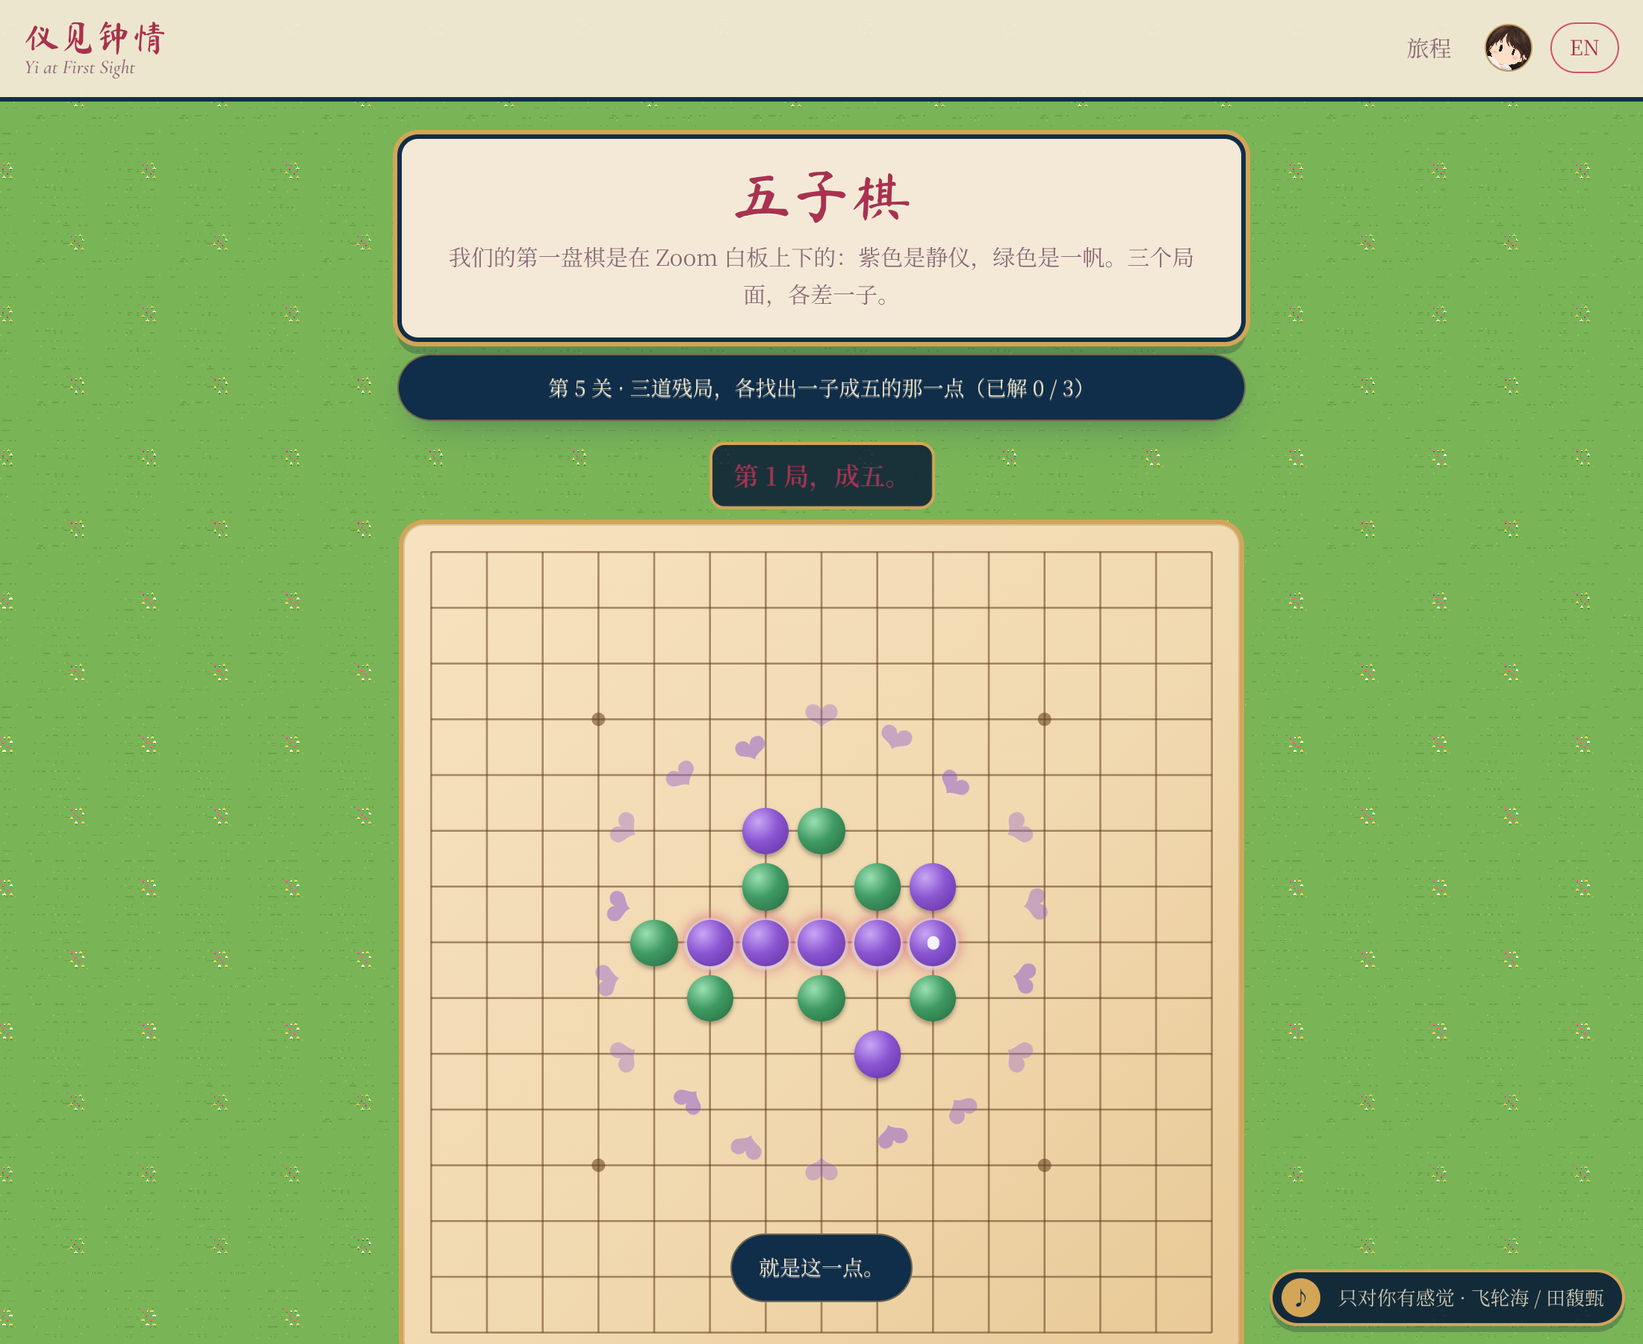
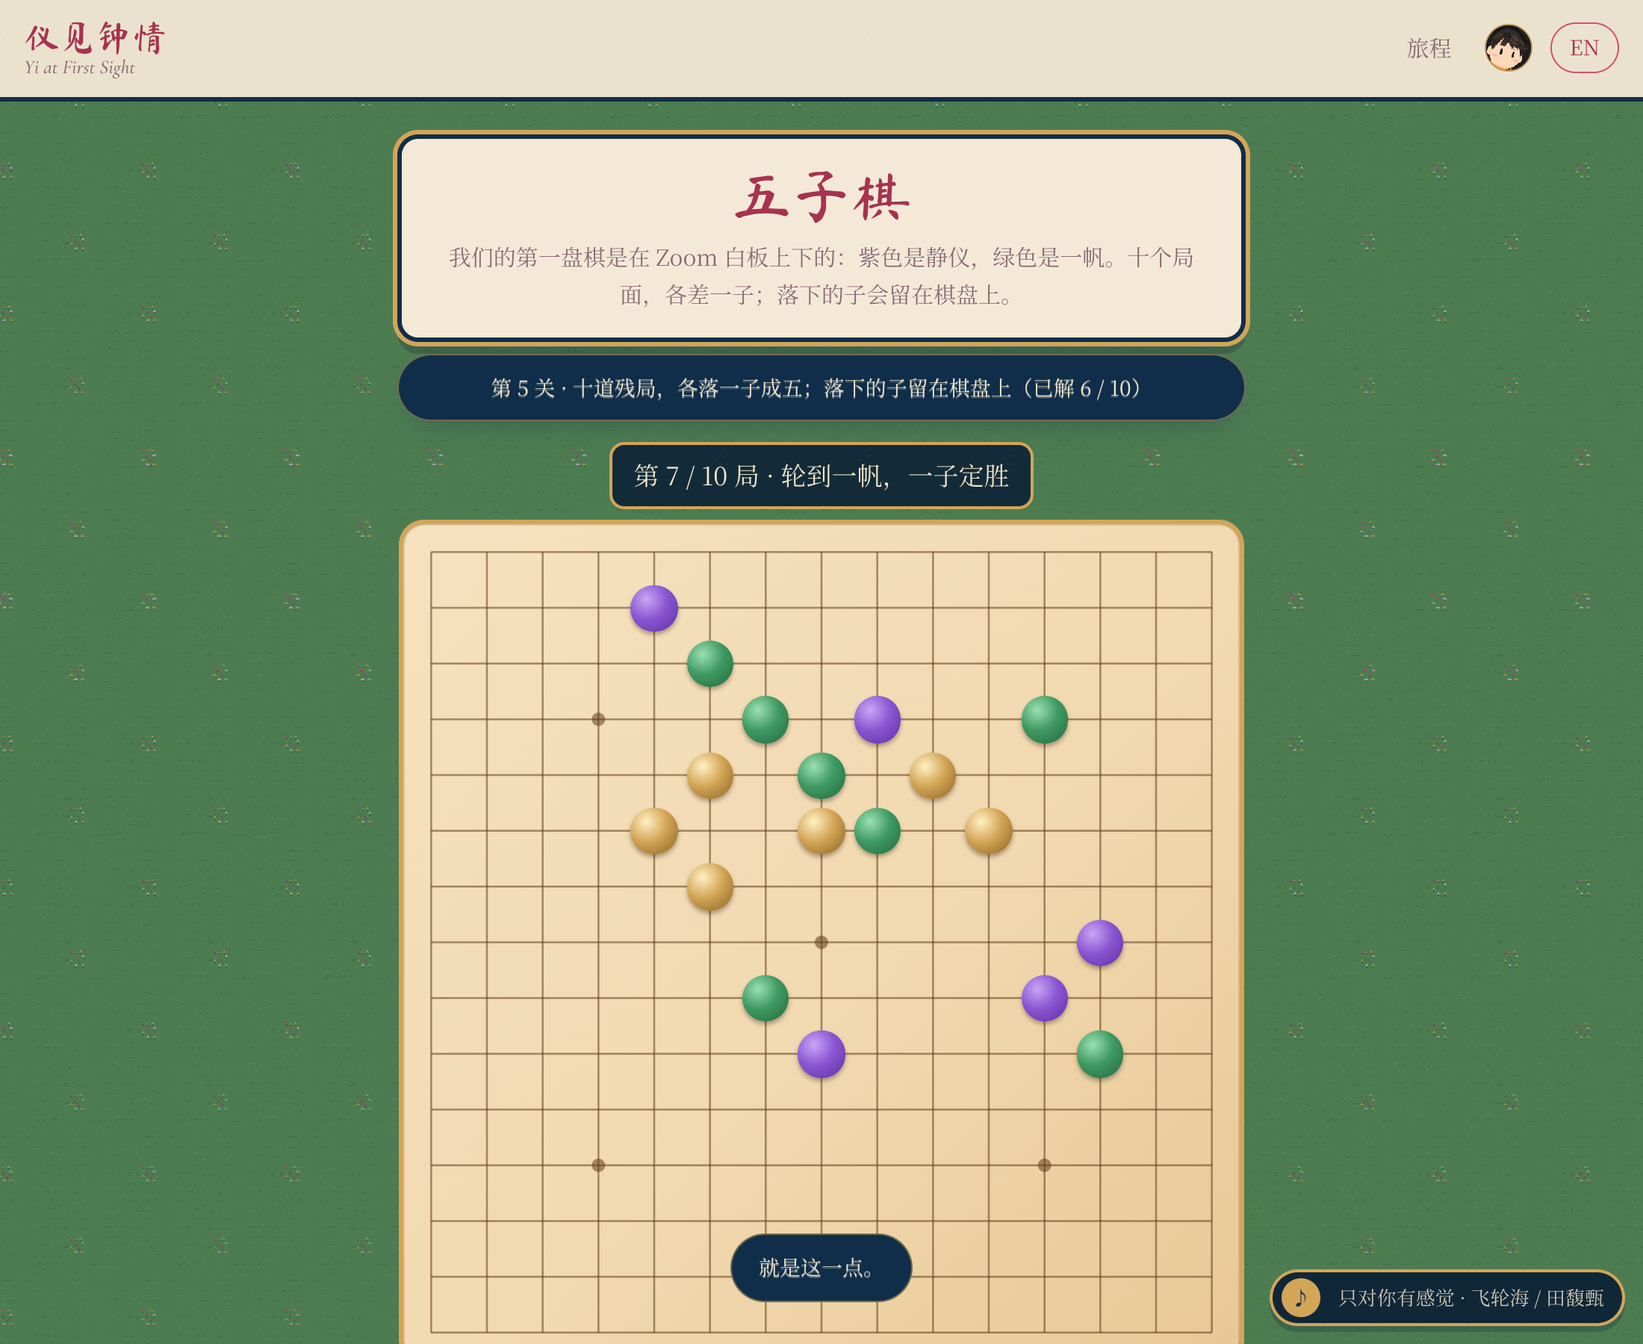
Gomoku: ten positions whose gold stones build a heart

diff --git a/src/features/gomoku/gomoku.ts b/src/features/gomoku/gomoku.ts
@@ -1,11 +1,12 @@
-// Level: three endgame positions from the board we played on. One stone wins each; find it.
+// Level: ten endgame positions, one stone each. Every answer stays on the board in gold; the
+// tenth completes a heart.
 import './gomoku.css';
 import { t } from '../../core/i18n';
 import { nameOf } from '../../core/players';
 import { getPlayer, isCleared, levelNumber } from '../../core/quest';
 import { levelCleared, toast } from '../../core/quest-ui';
 import { SIZE, boardWith, other, winningLine, type Board, type Cell, type Stone } from './core';
-import { PUZZLES } from './puzzles';
+import { HEART, PUZZLES } from './puzzles';
 
 const STARS = [[3, 3], [3, 11], [7, 7], [11, 3], [11, 11]];
 
@@ -21,16 +22,17 @@ function gridSvg(): string {
 export function renderGomoku(root: HTMLElement): () => void {
   const me: Stone = getPlayer() === 'yifan' ? 'green' : 'purple';
   const done = isCleared('gomoku');
-  let i = done ? PUZZLES.length - 1 : 0;
-  let board: Board = emptyFor(i);
-  let win: Cell[] = [];          // the line lit after a right answer
-  let solved = done;
+  let i = done ? PUZZLES.length : 0;     // puzzles solved so far; PUZZLES[i] is the one on the board
+  let board: Board = boardFor(i);
+  let win: Cell[] = [];                  // the line lit after a right answer
   let timer = 0, burstTimer = 0;
 
-  function emptyFor(k: number): Board {
+  function boardFor(k: number): Board {
     const p = PUZZLES[k];
-    return boardWith({ [me]: p.mover, [other(me)]: p.other });
+    return p ? boardWith({ [me]: p.mover, [other(me)]: p.other }) : boardWith({});
   }
+  const goldKey = (r: number, c: number) => `${r},${c}`;
+  const gold = () => new Set(HEART.slice(0, i).map(([r, c]) => goldKey(r, c)));
 
   const cells = Array.from({ length: SIZE * SIZE }, (_, k) =>
     `<button type="button" class="cell" data-r="${Math.floor(k / SIZE)}" data-c="${k % SIZE}"></button>`).join('');
@@ -46,7 +48,6 @@ export function renderGomoku(root: HTMLElement): () => void {
         <div class="board" id="board" data-turn="${me}">${gridSvg()}${cells}</div>
         <div class="burst" id="burst" aria-hidden="true"></div>
       </div>
-      <div class="gomoku-actions" id="g-actions"></div>
     </section>`;
   const $ = <T extends HTMLElement>(sel: string) => root.querySelector<T>(sel)!;
   const boardEl = $('#board');
@@ -54,30 +55,25 @@ export function renderGomoku(root: HTMLElement): () => void {
   const burst = $('#burst');
 
   const update = () => {
-    const p = PUZZLES[i];
+    const g = gold();
     const lit = new Set(win.map(([a, b]) => a * SIZE + b));
+    const finished = i >= PUZZLES.length;
     buttons.forEach((btn, k) => {
       const r = Math.floor(k / SIZE), c = k % SIZE;
       const stone = board[r][c];
-      const last = solved && r === p.answer[0] && c === p.answer[1];
-      btn.className = `cell${stone ? ` stone ${stone}` : ''}${lit.has(k) ? ' win' : ''}${last ? ' last' : ''}`;
+      const isGold = g.has(goldKey(r, c));
+      btn.className = `cell${isGold ? ' stone gold' : stone ? ` stone ${stone}` : ''}${lit.has(k) ? ' win' : ''}${finished && isGold ? ' heart' : ''}`;
       const where = t('gomoku.cell', { r: r + 1, c: c + 1 });
-      btn.setAttribute('aria-label', stone ? `${where} · ${nameOf(stone)}` : where);
+      btn.setAttribute('aria-label', isGold ? `${where} · ♥` : stone ? `${where} · ${nameOf(stone)}` : where);
     });
-    boardEl.dataset.turn = solved ? '' : me;
+    boardEl.dataset.turn = finished || win.length ? '' : me;
     const cleared = isCleared('gomoku');
     $('#g-task').classList.toggle('done', cleared);
     $('#g-task').textContent = cleared ? t('quest.cleared.eyebrow', { n: levelNumber('gomoku') })
       : t('quest.task.gomoku', { n: levelNumber('gomoku'), done: i, total: PUZZLES.length });
-    $('#g-status').textContent = solved ? t('gomoku.solved', { i: i + 1 }) : t('gomoku.puzzle', { i: i + 1, n: PUZZLES.length, name: nameOf(me) });
-    $('#g-status').dataset.state = solved ? 'won' : 'playing';
-    $('#g-actions').innerHTML = `${i > 0 ? `<button type="button" class="g-btn" id="g-prev">${t('gomoku.prev')}</button>` : ''}
-      ${solved && i + 1 < PUZZLES.length ? `<button type="button" class="g-btn primary" id="g-next">${t('gomoku.next')}</button>` : ''}`;
-  };
-  const show = (k: number, asSolved: boolean) => {
-    i = k; solved = asSolved; board = emptyFor(k); win = [];
-    if (asSolved) { const [r, c] = PUZZLES[k].answer; win = winningLine(board, me, r, c) ?? []; board[r][c] = me; }
-    update();
+    $('#g-status').textContent = finished ? t('gomoku.heart')
+      : win.length ? t('gomoku.solved', { i: i }) : t('gomoku.puzzle', { i: i + 1, n: PUZZLES.length, name: nameOf(me) });
+    $('#g-status').dataset.state = finished ? 'won' : 'playing';
   };
   const celebrate = () => {
     burst.innerHTML = Array.from({ length: 18 }, (_, k) => `<i style="--a:${k * 20}deg;--d:${(k % 3) * 60}ms" class="${me}">❤</i>`).join('');
@@ -87,13 +83,18 @@ export function renderGomoku(root: HTMLElement): () => void {
 
   boardEl.addEventListener('click', (e) => {
     const btn = (e.target as HTMLElement).closest<HTMLButtonElement>('.cell');
-    if (!btn || solved) return;
+    if (!btn || win.length || i >= PUZZLES.length) return;
     const r = Number(btn.dataset.r), c = Number(btn.dataset.c);
-    if (board[r][c]) return;
+    if (board[r][c] || gold().has(goldKey(r, c))) return;
     const line = winningLine(board, me, r, c);
     if (line) {
-      board[r][c] = me; win = line; solved = true; update(); celebrate();
-      if (i + 1 === PUZZLES.length) levelCleared('gomoku'); else toast(t('gomoku.right'));
+      board[r][c] = me; win = line; update();
+      toast(t('gomoku.right'));
+      clearTimeout(timer);
+      timer = window.setTimeout(() => {           // the stone turns gold and the next position is laid
+        i++; win = []; board = boardFor(i); update();
+        if (i === PUZZLES.length) { celebrate(); levelCleared('gomoku'); }
+      }, 900);
     } else {
       board[r][c] = me; update();
       btn.classList.add('wrong');
@@ -102,12 +103,7 @@ export function renderGomoku(root: HTMLElement): () => void {
       timer = window.setTimeout(() => { board[r][c] = null; update(); }, 500);
     }
   });
-  root.addEventListener('click', (e) => {
-    const el = e.target as HTMLElement;
-    if (el.closest('#g-next')) show(i + 1, isCleared('gomoku'));
-    else if (el.closest('#g-prev')) show(i - 1, true);
-  });
 
-  show(i, done);
+  update();
   return () => { clearTimeout(timer); clearTimeout(burstTimer); };
 }

diff --git a/src/features/gomoku/puzzles.ts b/src/features/gomoku/puzzles.ts
@@ -1,29 +1,54 @@
-// Three "win in one" positions. `mover` is whoever is playing: Jingyi sees her purple to move,
-// Yifan his green, so the same puzzle serves both. Each has exactly one winning point (tested).
-import type { Cell } from './core';
+// Ten "win in one" positions. Each answer is one point of a heart; the answers stay on the board
+// in gold as they are found, and the tenth completes the heart. The positions are built from
+// three patterns (a four shut at one end, a four with a hole, three-and-one) laid in varied
+// directions around each heart point, with a few decoy stones, and checked by the test to have
+// exactly one winning point. `mover` is whoever is playing; `other` the partner's colour.
+import { SIZE, boardWith, inside, winningCells, type Cell } from './core';
 
 export interface Puzzle { id: string; mover: Cell[]; other: Cell[]; answer: Cell }
 
-export const PUZZLES: Puzzle[] = [
-  {
-    // A four blocked at one end: the open end wins.
-    id: 'four',
-    mover: [[7, 5], [7, 6], [7, 7], [7, 8], [5, 6], [9, 8], [6, 9]],
-    other: [[7, 4], [6, 6], [8, 7], [6, 8], [8, 5], [5, 7], [8, 9]],
-    answer: [7, 9],
-  },
-  {
-    // A diagonal with a hole in the middle, both ends shut.
-    id: 'hole',
-    mover: [[4, 4], [5, 5], [7, 7], [8, 8], [5, 7], [8, 5], [10, 6]],
-    other: [[3, 3], [9, 9], [5, 6], [6, 5], [4, 8], [7, 4], [6, 8], [9, 6]],
-    answer: [6, 6],
-  },
-  {
-    // A split four up the middle while the other side has an open four waiting: win now or lose.
-    id: 'now',
-    mover: [[3, 7], [4, 7], [6, 7], [7, 7], [9, 3], [10, 4], [11, 5], [5, 9], [6, 10]],
-    other: [[2, 7], [8, 7], [5, 6], [10, 8], [10, 9], [10, 10], [10, 11], [8, 2], [12, 6], [4, 8]],
-    answer: [5, 7],
-  },
+/** The heart, ten points, found in this order (left lobe, right lobe, then down to the tip). */
+export const HEART: Cell[] = [[4, 5], [5, 4], [4, 9], [5, 10], [5, 7], [6, 5], [6, 9], [7, 6], [7, 8], [8, 7]];
+
+const DIRS: Cell[] = [[0, 1], [1, 0], [1, 1], [1, -1], [0, -1], [-1, 0], [-1, -1], [-1, 1]];
+const inHeart = (r: number, c: number) => HEART.some(([hr, hc]) => hr === r && hc === c);
+const add = (a: Cell, d: Cell, k: number): Cell => [a[0] + d[0] * k, a[1] + d[1] * k];
+
+/** The three patterns: offsets (in multiples of the direction) of the mover's stones and the other side's blocks. */
+const PATTERNS: { mover: number[]; other: number[] }[] = [
+  { mover: [1, 2, 3, 4], other: [5] },            // a four, shut at the far end: only the near end wins
+  { mover: [-2, -1, 1, 2], other: [-3, 3] },      // a hole in the middle, both ends shut
+  { mover: [1, 2, 3, -1], other: [4, -2] },       // three and one, both ends shut
 ];
+/** Decoy stones around the answer (row, col offsets), both colours, skipped where they would collide. */
+const DECOYS: { mover: Cell[]; other: Cell[] } = {
+  mover: [[2, -3], [-3, 2], [3, 3]],
+  other: [[-2, -2], [2, 2], [-3, -1], [1, 3], [3, -2]],
+};
+
+function build(answer: Cell, i: number): Puzzle | null {
+  for (let t = 0; t < DIRS.length; t++) {
+    const d = DIRS[(i + t) % DIRS.length];
+    const pat = PATTERNS[i % PATTERNS.length];
+    const mover = pat.mover.map((k) => add(answer, d, k));
+    const other = pat.other.map((k) => add(answer, d, k));
+    const cells = [...mover, ...other];
+    if (!cells.every(([r, c]) => inside(r, c) && !inHeart(r, c))) continue;
+    const taken = new Set(cells.map(([r, c]) => `${r},${c}`));
+    const place = (offs: Cell[], into: Cell[]) => {
+      for (const [dr, dc] of offs) {
+        const r = answer[0] + dr, c = answer[1] + dc;
+        if (!inside(r, c) || inHeart(r, c) || taken.has(`${r},${c}`)) continue;
+        taken.add(`${r},${c}`); into.push([r, c]);
+      }
+    };
+    place(DECOYS.mover, mover); place(DECOYS.other, other);
+    const wins = winningCells(boardWith({ purple: mover, green: other }), 'purple');
+    if (wins.length === 1 && wins[0][0] === answer[0] && wins[0][1] === answer[1]) return { id: `heart-${i + 1}`, mover, other, answer };
+  }
+  return null;
+}
+
+export const PUZZLES: Puzzle[] = HEART.map((a, i) => build(a, i)).filter((p): p is Puzzle => p !== null);
+
+export const BOARD = SIZE;

diff --git a/src/core/i18n.ts b/src/core/i18n.ts
@@ -63,7 +63,7 @@ const zh = {
   'quest.task.moments': '第 {n} 关 · 把这些日子按先后排好（点两个交换）',
   'quest.task.moments.check': '排好了',
   'quest.task.moments.wrong': '顺序还不对，再试试。',
-  'quest.task.gomoku': '第 {n} 关 · 三道残局，各找出一子成五的那一点（已解 {done} / {total}）',
+  'quest.task.gomoku': '第 {n} 关 · 十道残局，各落一子成五；落下的子留在棋盘上（已解 {done} / {total}）',
   'quest.task.songs': '第 {n} 关 · 听一段，选出歌名（已对 {done} / {total}）',
   'songs.title': '我们的歌',
   'songs.subtitle': '六首我们的歌，各放一段。点唱片听，再从四个歌名里选。',
@@ -155,13 +155,12 @@ const zh = {
   'moments.count': '已经记下 {n} 个时刻',
   'moments.more': '以后还会有很多很多。',
   'gomoku.title': '五子棋',
-  'gomoku.subtitle': '我们的第一盘棋是在 Zoom 白板上下的：紫色是静仪，绿色是一帆。三个局面，各差一子。',
+  'gomoku.subtitle': '我们的第一盘棋是在 Zoom 白板上下的：紫色是静仪，绿色是一帆。十个局面，各差一子；落下的子会留在棋盘上。',
   'gomoku.puzzle': '第 {i} / {n} 局 · 轮到{name}，一子定胜',
   'gomoku.solved': '第 {i} 局，成五。',
+  'gomoku.heart': '十颗子，一颗心。',
   'gomoku.right': '就是这一点。',
   'gomoku.wrong': '这一子还不能成五，再看看。',
-  'gomoku.next': '下一局',
-  'gomoku.prev': '上一局',
   'gomoku.cell': '第 {r} 行，第 {c} 列',
   'quest.level.puzzle': '拼图',
   'quest.level.stars': '天秤与天蝎',
@@ -367,7 +366,7 @@ const en: Record<Key, string> = {
   'quest.task.moments': 'Level {n} · put these days in order (tap two to swap)',
   'quest.task.moments.check': 'Done',
   'quest.task.moments.wrong': 'Not in order yet. Try again.',
-  'quest.task.gomoku': 'Level {n} · three endgames, find the one stone that makes five ({done} / {total} solved)',
+  'quest.task.gomoku': 'Level {n} · ten endgames, one stone each to make five; the stones you place stay ({done} / {total})',
   'quest.task.songs': 'Level {n} · listen and pick the title ({done} / {total} right)',
   'songs.title': 'Our Songs',
   'songs.subtitle': 'Six of our songs, a passage each. Tap the record to listen, then pick the title from four.',
@@ -459,13 +458,12 @@ const en: Record<Key, string> = {
   'moments.count': '{n} moments and counting',
   'moments.more': 'Many, many more to come.',
   'gomoku.title': 'Gomoku',
-  'gomoku.subtitle': 'Our first game was on a Zoom whiteboard: purple for Jingyi, green for Yifan. Three positions, each one stone short.',
+  'gomoku.subtitle': 'Our first game was on a Zoom whiteboard: purple for Jingyi, green for Yifan. Ten positions, each one stone short; the stones you place stay.',
   'gomoku.puzzle': 'Position {i} of {n} · {name} to move, one stone wins',
   'gomoku.solved': 'Position {i}: five in a row.',
+  'gomoku.heart': 'Ten stones, one heart.',
   'gomoku.right': 'That’s the point.',
   'gomoku.wrong': 'That stone does not make five. Look again.',
-  'gomoku.next': 'Next position',
-  'gomoku.prev': 'Previous position',
   'gomoku.cell': 'Row {r}, column {c}',
   'quest.level.puzzle': 'Puzzle',
   'quest.level.stars': 'Libra and Scorpius',

diff --git a/src/features/gomoku/core.test.ts b/src/features/gomoku/core.test.ts
@@ -1,6 +1,6 @@
 import { describe, expect, it } from 'vitest';
 import { boardWith, winningCells, winningLine, SIZE } from './core';
-import { PUZZLES } from './puzzles';
+import { HEART, PUZZLES } from './puzzles';
 
 describe('gomoku rules', () => {
   it('finds a five in every direction and counts six as a win', () => {
@@ -20,14 +20,15 @@ describe('gomoku rules', () => {
   });
 });
 
-describe('puzzles', () => {
-  it('each has exactly one winning point for the mover', () => {
+describe('the heart of puzzles', () => {
+  it('builds one puzzle per heart point, in order', () => {
+    expect(PUZZLES.length).toBe(HEART.length);
+    PUZZLES.forEach((p, i) => expect(p.answer).toEqual(HEART[i]));
+  });
+  it('each has exactly one winning point for the mover, the heart point', () => {
     for (const p of PUZZLES) expect(winningCells(boardWith({ purple: p.mover, green: p.other }), 'purple'), p.id).toEqual([p.answer]);
   });
-  it('the third is urgent: the other side wins next move unless the mover wins now', () => {
-    expect(winningCells(boardWith({ purple: PUZZLES[2].mover, green: PUZZLES[2].other }), 'green').length).toBeGreaterThan(0);
-  });
-  it('is a position the mover could really be in (equal stones, or one fewer)', () => {
-    for (const p of PUZZLES) expect(p.other.length - p.mover.length, p.id).toBeGreaterThanOrEqual(0);
+  it('never puts a stone on another heart point, so the gold stones collected so far never collide', () => {
+    for (const p of PUZZLES) for (const [r, c] of [...p.mover, ...p.other]) expect(HEART.some(([hr, hc]) => hr === r && hc === c), `${p.id} ${r},${c}`).toBe(false);
   });
 });

diff --git a/src/features/gomoku/gomoku.css b/src/features/gomoku/gomoku.css
@@ -52,6 +52,9 @@ html[lang='en'] .gomoku-head h1 { font-family: var(--serif-en); font-style: ital
   width: 22%; height: 22%; transform: translate(-50%, -50%);
   border-radius: 50%; background: rgba(255, 255, 255, 0.9);
 }
+.cell.gold::after { background: radial-gradient(circle at 34% 30%, #fff1c2 0%, #d3a557 45%, #8a6420 100%); }
+.cell.heart::after { animation: heart-glow 1.4s ease-in-out infinite alternate; }
+@keyframes heart-glow { to { box-shadow: 0 0 0 2px #fff, 0 0 12px 4px var(--rose); } }
 .cell.wrong::after { animation: wrong-fade 0.5s ease both; }
 @keyframes wrong-fade { to { opacity: 0; transform: scale(0.6); } }
 .cell.win::after { animation: win-glow 1.1s ease-in-out infinite alternate; }

diff --git a/src/features/gomoku/README.md b/src/features/gomoku/README.md
@@ -1,18 +1,17 @@
 # Gomoku (level)
 
-Three endgame positions, a nod to our first game on a Zoom whiteboard (purple for Jingyi, green
+Ten endgame positions, a nod to our first game on a Zoom whiteboard (purple for Jingyi, green
 for Yifan). Each is "win in one": the player sees their own colour to move and taps the stone
-that makes five. A wrong stone fades out; the right one lights the line and bursts hearts. The
-third solved position clears the level (`levelCleared('gomoku')`). The third position also has
-the other side one move from winning, so it has to be now. Route: `/gomoku`, entered through
-its house.
+that makes five. A wrong stone fades out; the right one lights the line, then turns gold and
+stays while the next position is laid around it. The ten gold stones are the ten points of a
+heart; the tenth completes it, bursts hearts and clears the level (`levelCleared('gomoku')`).
+Route: `/gomoku`, entered through its house.
 
 | File | Job |
 |---|---|
 | `core.ts` | Pure rules: `boardWith`, `winningLine` (five or more through a cell), `winningCells` |
-| `puzzles.ts` | `PUZZLES`: the mover's stones, the other side's, the one answer. The mover takes the player's colour |
-| `gomoku.ts` / `gomoku.css` | The page: SVG grid behind a 15×15 grid of buttons, stones, win glow, heart burst, Prev / Next |
-| `core.test.ts` | Lines in all four directions, six in a row, edges; every puzzle has exactly one winning point |
+| `puzzles.ts` | `HEART` (ten points, in order) and `PUZZLES`, built from three patterns (a four shut at one end, a four with a hole, three-and-one) in varied directions with decoys, never on another heart point |
+| `gomoku.ts` / `gomoku.css` | The page: SVG grid behind a 15×15 grid of buttons, stones, gold keepsakes, win glow, heart burst |
+| `core.test.ts` | Lines in all four directions, six in a row, edges; one puzzle per heart point; exactly one winning point each; no stone on another heart point |
 
-Replacing a position with a real one from our game: list the stones in `puzzles.ts`; the test
-fails if the mover has no winning point or more than one.
+To change the heart, edit `HEART`; the builder finds a position for each point or the test fails.

diff --git a/README.md b/README.md
@@ -69,7 +69,7 @@ Each roof in the town has its own colour and carries its number. Walk into the d
 | 🟦 | 2 | Love Map | Name six street views; each right answer puts a heart on the map to pick up | Texas, Los Angeles, Japan, Shenzhen, Hong Kong, New York, and why each is ours |
 | 🟧 | 3 | Moments | Put five memories in order | The timeline, each memory badged with its day number |
 | 🟩 | 4 | Puzzle | Put the photo back together | The other one's face in nine tiles |
-| 🟫 | 5 | Gomoku | Three endgames: find the one stone that makes five | Your own colour to move, after our first game on a Zoom whiteboard |
+| 🟫 | 5 | Gomoku | Ten endgames, one stone each; the stones you place stay and the tenth completes a heart | Your own colour to move, after our first game on a Zoom whiteboard |
 | 🟪 | 6 | Our Songs | Hear a passage, pick the title from four | Six of our songs; the same files feed the jukebox |
 | ⬛ | 7 | Libra and Scorpius | Join the stars of both our signs | Real star positions; Libra's brightest stars are still the Scorpion's claws |
 | 🟥 | 8 | Us, in Old Verse | Put the missing characters of five love poems back | Su Wu, Guan Daosheng, Li Shangyin, the paired birds of the *Yutai xinyong*, one anonymous couplet |

diff --git a/docs/CHANGELOG.md b/docs/CHANGELOG.md
@@ -2,6 +2,12 @@
 
 Versions are tags of feeling more than of code; the site deploys on every push.
 
+## 1.11.0 (2026-10-26)
+
+- Gomoku (owner): ten positions instead of three, one stone each; every answer stays on the
+  board in gold and the tenth completes a heart. Positions are generated from three patterns
+  around the heart's points and checked to have exactly one winning point.
+
 ## 1.10.0 (2026-10-26)
 
 - Level 1 gains its second half (owner): after the question, the vow. Wedding vows rewritten
